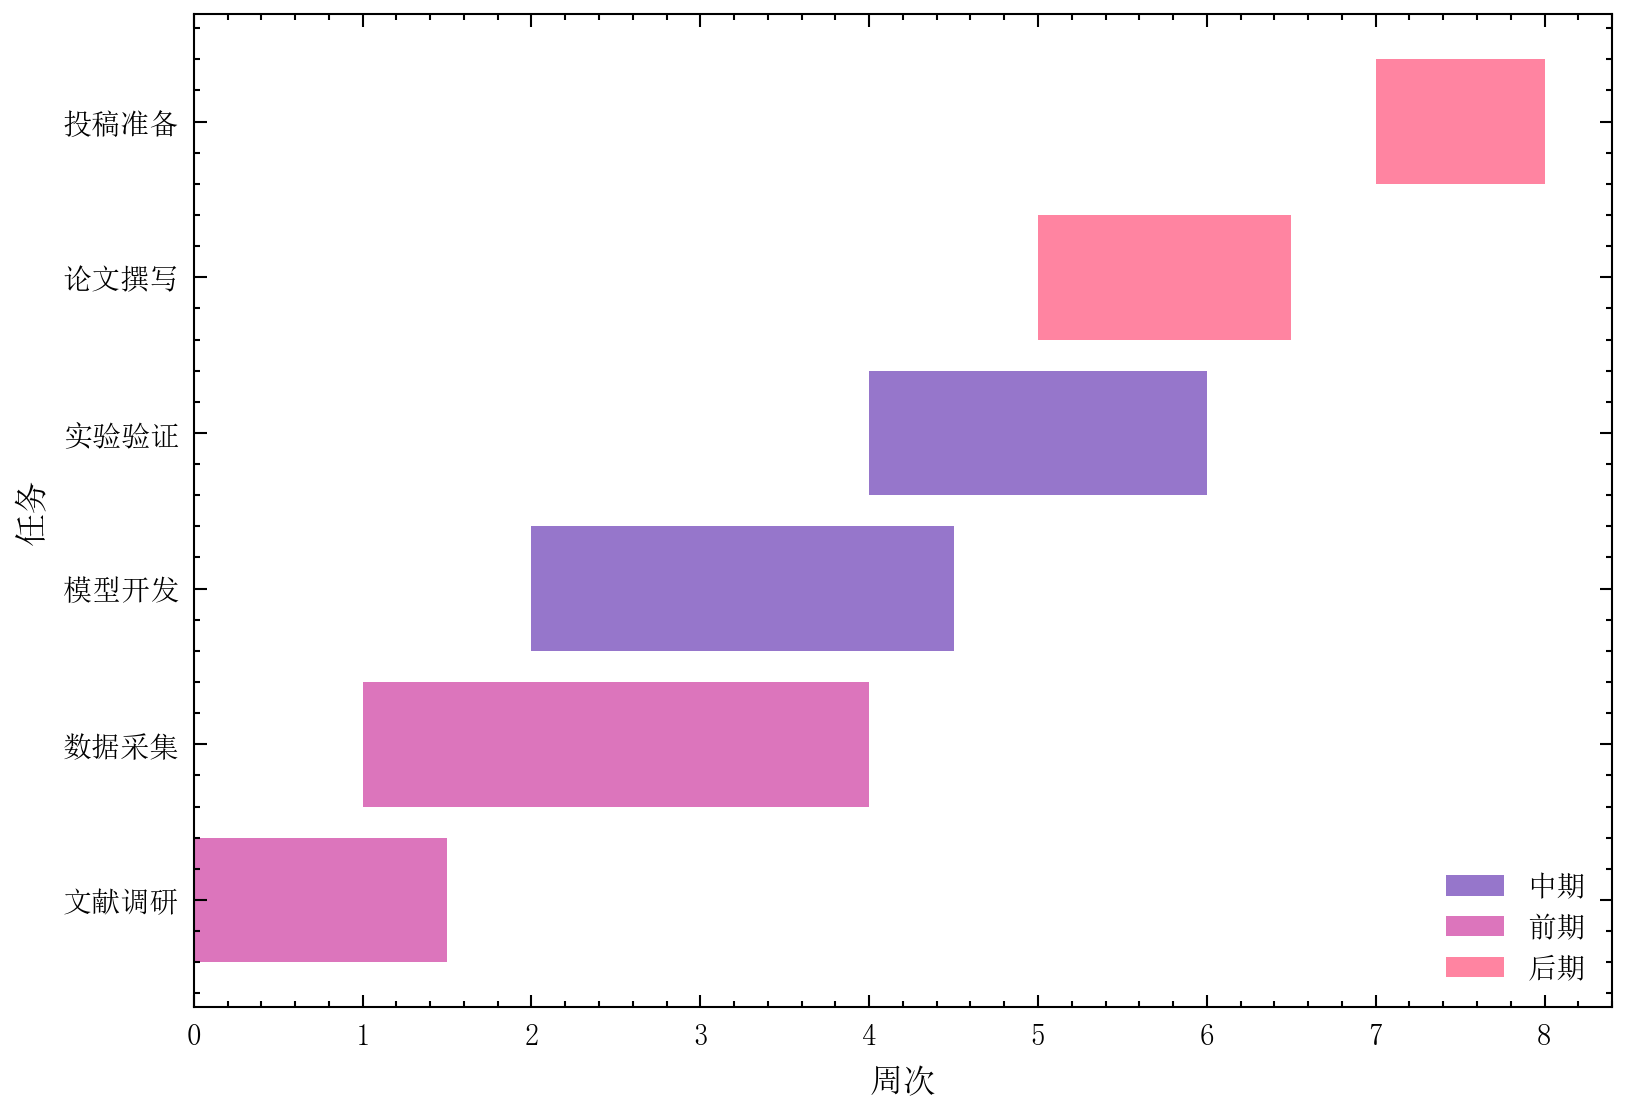
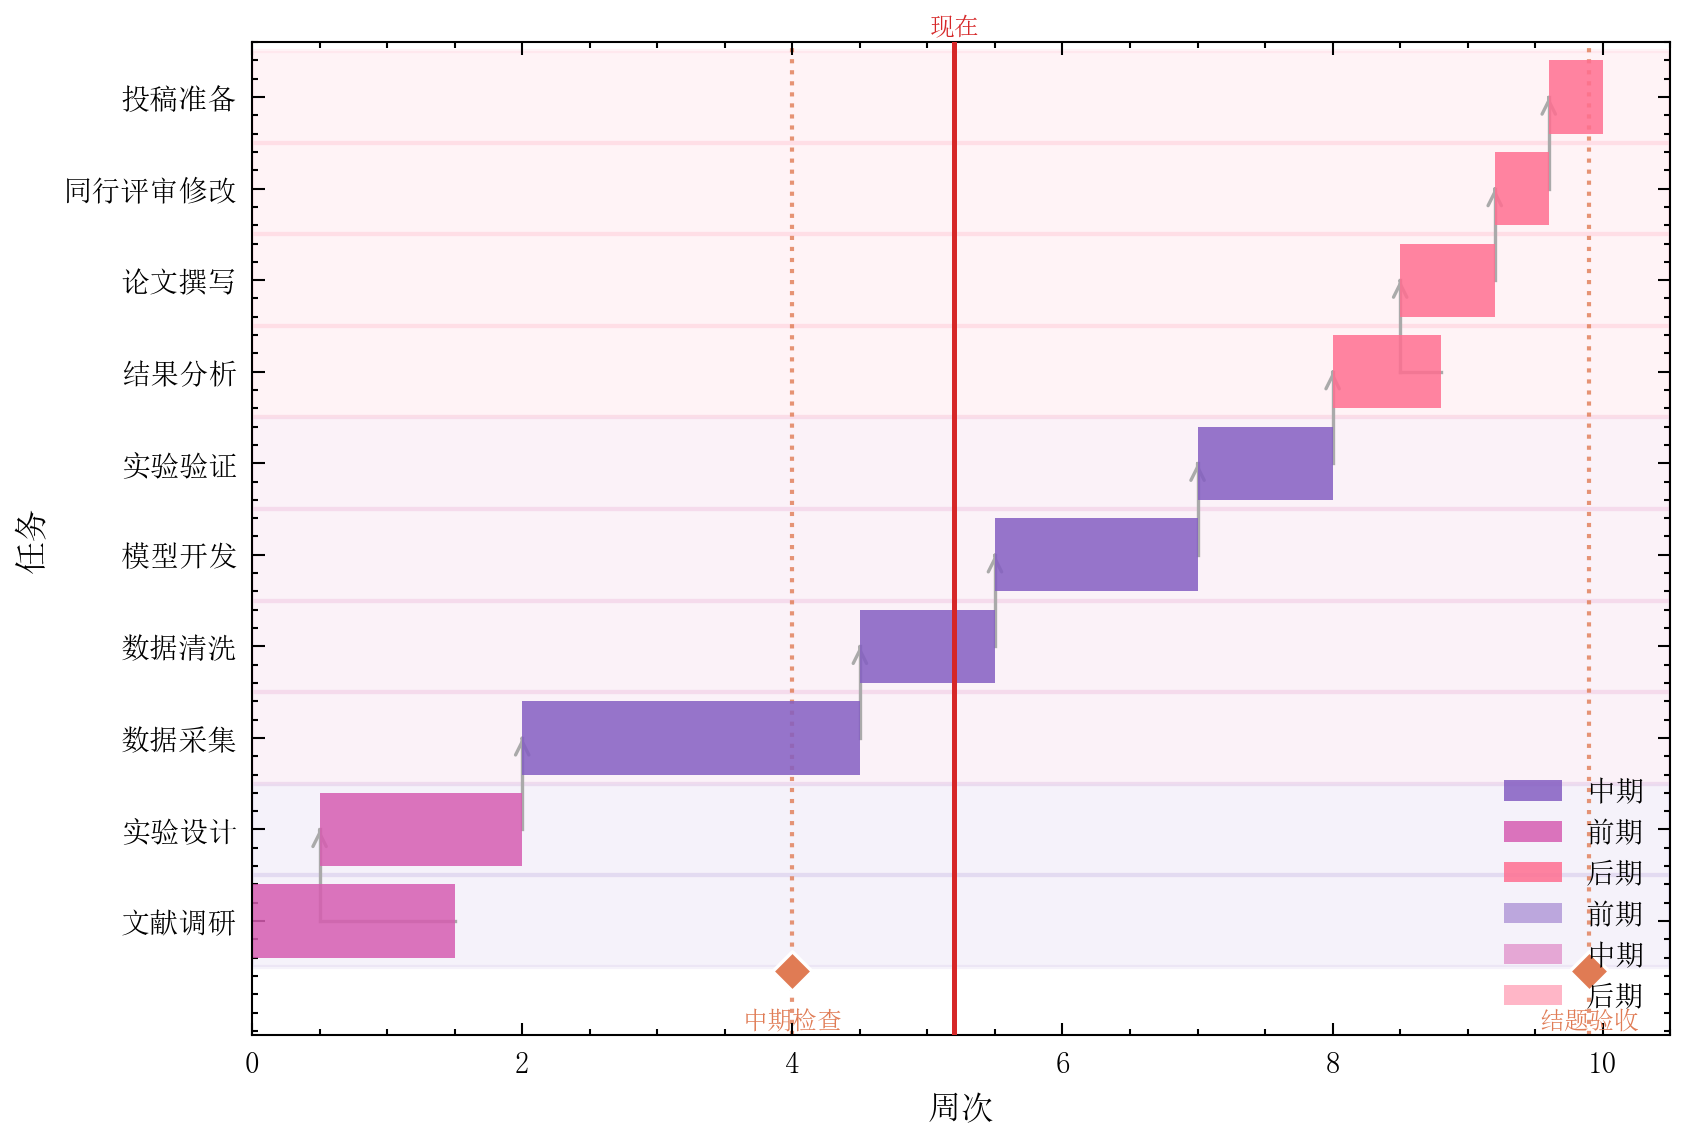
feat(gantt): 甘特图升级 - 阶段背景色带/里程碑菱形/依赖L形箭头/当前时间线/ylim适配

diff --git a/sciplot/_plots/timeseries.py b/sciplot/_plots/timeseries.py
@@ -6,7 +6,7 @@
 
 from __future__ import annotations
 
-from typing import Any, Dict, List, Optional, Union, Sequence
+from typing import Any, Dict, List, Optional, Tuple, Union, Sequence
 import warnings
 
 import matplotlib.pyplot as plt
@@ -445,6 +445,10 @@ def plot_gantt(
     ylabel: str = "",
     title: str = "",
     color_by: Optional[Union[List[str], np.ndarray]] = None,
+    groups: Optional[List[str]] = None,
+    milestones: Optional[Dict[str, float]] = None,
+    dependencies: Optional[List[Tuple[int, int]]] = None,
+    now: Optional[float] = None,
     show_labels: bool = True,
     alpha: float = 0.85,
     venue: Optional[str] = None,
@@ -457,21 +461,27 @@ def plot_gantt(
 
     每个任务一行水平条形，起点为 start、宽度为 duration（或由 end 推导），
     支持数值时间轴（天数/小时）与 datetime 时间轴。
+    可选元素：阶段分组背景色带、里程碑菱形标记、任务依赖箭头、当前时间线。
 
     参数:
-        tasks     : 任务名称列表
-        start     : 任务开始时间（数值或 datetime/date 序列）
-        duration  : 任务持续时长；数值轴为数值，日期轴为 timedelta 或天数
-        end       : 任务结束时间（与 duration 二选一，优先 duration）
-        color_by  : 每任务颜色或类别标签（等长）；None 用配色循环
-        show_labels: 是否显示任务名称
-        alpha     : 条形透明度
+        tasks        : 任务名称列表
+        start        : 任务开始时间（数值或 datetime/date 序列）
+        duration     : 任务持续时长；数值轴为数值，日期轴为 timedelta 或天数
+        end          : 任务结束时间（与 duration 二选一，优先 duration）
+        color_by     : 每任务颜色或类别标签（等长）；None 用配色循环
+        groups       : 任务所属阶段（等长）；提供时绘制阶段背景色带
+        milestones   : {里程碑名称: 时间}，绘制菱形标记与虚线连接
+        dependencies : 依赖关系 [(上游任务索引, 下游任务索引)]，绘制箭头
+        now          : 当前时间位置，绘制红色时间线
+        show_labels  : 是否显示任务名称
+        alpha        : 条形透明度
 
     示例:
         >>> # 数值时间轴（天数）
         >>> fig, ax = sp.plot_gantt(
         ...     ["数据采集", "模型训练", "论文撰写"],
         ...     start=[0, 10, 30], duration=[10, 20, 20],
+        ...     milestones={"中期检查": 22}, dependencies=[(0, 1)], now=15,
         ...     xlabel="天数",
         ... )
         >>> sp.save(fig, "gantt")
@@ -568,14 +578,99 @@ def plot_gantt(
         bar_colors = [colors[i % len(colors)] for i in range(len(tasks))]
         legend_handles = None
 
+    # groups / milestones / dependencies / now 校验
+    if groups is not None:
+        if len(groups) != len(tasks):
+            raise ValueError(
+                f"groups 长度 ({len(groups)}) 与 tasks 长度 ({len(tasks)}) 不一致"
+            )
+    if dependencies is not None:
+        for dep in dependencies:
+            if len(dep) != 2 or not all(
+                isinstance(i, int) and 0 <= i < len(tasks) for i in dep
+            ):
+                raise ValueError(
+                    f"dependencies 必须为 [(上游索引, 下游索引)]，实际项: {dep!r}"
+                )
+
     y = np.arange(len(tasks))
-    ax.barh(y, widths, left=starts_plot, color=bar_colors, alpha=alpha, **kwargs)
+
+    # 阶段背景色带
+    if groups is not None:
+        from matplotlib.patches import Patch as _Patch
+
+        unique_groups = list(dict.fromkeys(groups))
+        group_colors = [colors[i % len(colors)] for i in range(len(unique_groups))]
+        group_map = dict(zip(unique_groups, group_colors))
+        for i, g in enumerate(groups):
+            ax.axhspan(
+                i - 0.5, i + 0.5, color=group_map[g], alpha=0.08, zorder=0,
+            )
+        # 阶段图例
+        legend_handles = legend_handles or []
+        legend_handles += [
+            _Patch(facecolor=c, label=str(g), alpha=0.5)
+            for g, c in zip(unique_groups, group_colors)
+        ]
+
+    ax.barh(y, widths, left=starts_plot, color=bar_colors, alpha=alpha, zorder=2, **kwargs)
+
+    # 任务依赖箭头（L 形：上游右端 → 下游左端）
+    if dependencies:
+        for up_idx, down_idx in dependencies:
+            x_from = starts_plot[up_idx] + widths[up_idx]
+            x_to = starts_plot[down_idx]
+            y_from = float(up_idx)
+            y_to = float(down_idx)
+            mid_y = y_from + (y_to - y_from) * 0.5
+            if abs(y_to - y_from) < 0.5:
+                # 相邻任务：直接水平箭头
+                ax.annotate(
+                    "", xy=(x_to, y_to), xytext=(x_from, y_from),
+                    arrowprops=dict(arrowstyle="->", color="#888888", lw=0.8),
+                    zorder=1,
+                )
+            else:
+                # 跨行：先水平、再垂直、再水平
+                ax.plot([x_from, x_to], [y_from, y_from], color="#AAAAAA",
+                        linewidth=0.8, zorder=1)
+                ax.plot([x_to, x_to], [y_from, y_to], color="#AAAAAA",
+                        linewidth=0.8, zorder=1)
+                ax.annotate(
+                    "", xy=(x_to, y_to), xytext=(x_to, y_to - 0.1),
+                    arrowprops=dict(arrowstyle="->", color="#AAAAAA", lw=0.8),
+                    zorder=1,
+                )
+
+    # 里程碑（菱形 + 虚线连接）
+    if milestones:
+        for m_name, m_time in milestones.items():
+            ax.axvline(x=m_time, color="#E07B54", linestyle=":",
+                       linewidth=1.0, alpha=0.8, zorder=1)
+            ax.scatter([m_time], [-0.55], marker="D", s=45, color="#E07B54",
+                       edgecolors="white", linewidths=0.8, zorder=4)
+            ax.text(m_time, -0.95, m_name, ha="center", va="top",
+                    fontsize=max(6, plt.rcParams.get("font.size", 9) - 2),
+                    color="#E07B54")
+
+    # 当前时间线
+    if now is not None:
+        ax.axvline(x=now, color="#D62728", linewidth=1.2, zorder=3)
+        ax.text(now, len(tasks) - 0.35, "现在", ha="center", va="bottom",
+                fontsize=max(6, plt.rcParams.get("font.size", 9) - 2),
+                color="#D62728")
 
     if show_labels:
         ax.set_yticks(y)
         ax.set_yticklabels(tasks)
     else:
         ax.set_yticks([])
+
+    # 里程碑位于任务区下方，扩展 y 范围容纳
+    if milestones:
+        ax.set_ylim(-1.25, len(tasks) - 0.4)
+    else:
+        ax.set_ylim(-0.5, len(tasks) - 0.5)
 
     if is_datetime:
         ax.xaxis.set_major_formatter(mdates.DateFormatter("%m-%d"))

diff --git a/showcase/22_gantt.py b/showcase/22_gantt.py
@@ -1,18 +1,39 @@
 """
 22_gantt.py — 甘特图
 
-展示 plot_gantt()：项目任务时间线。
-场景：科研项目 8 周执行计划。
+展示 plot_gantt()：科研项目 10 周执行计划。
+包含：三阶段背景色带、里程碑（中期检查/结题验收）、
+任务依赖箭头、当前时间线。
 """
 
 import numpy as np
 import sciplot as sp
 
 # ── 数据生成 ──────────────────────────────────────────────────
-tasks = ["文献调研", "数据采集", "模型开发", "实验验证", "论文撰写", "投稿准备"]
-start = [0, 1, 2, 4, 5, 7]
-duration = [1.5, 3, 2.5, 2, 1.5, 1]
-phases = ["前期", "前期", "中期", "中期", "后期", "后期"]
+tasks = [
+    "文献调研", "实验设计", "数据采集", "数据清洗", "模型开发",
+    "实验验证", "结果分析", "论文撰写", "同行评审修改", "投稿准备",
+]
+start = [0.0, 0.5, 2.0, 4.5, 5.5, 7.0, 8.0, 8.5, 9.2, 9.6]
+duration = [1.5, 1.5, 2.5, 1.0, 1.5, 1.0, 0.8, 0.7, 0.4, 0.4]
+phases = ["前期", "前期", "中期", "中期", "中期", "中期", "后期", "后期", "后期", "后期"]
+
+milestones = {
+    "中期检查": 4.0,
+    "结题验收": 9.9,
+}
+dependencies = [
+    (0, 1),   # 文献调研 → 实验设计
+    (1, 2),   # 实验设计 → 数据采集
+    (2, 3),   # 数据采集 → 数据清洗
+    (3, 4),   # 数据清洗 → 模型开发
+    (4, 5),   # 模型开发 → 实验验证
+    (5, 6),   # 实验验证 → 结果分析
+    (6, 7),   # 结果分析 → 论文撰写
+    (7, 8),   # 论文撰写 → 评审修改
+    (8, 9),   # 评审修改 → 投稿准备
+]
+now = 5.2
 
 # ── 绘图 ──────────────────────────────────────────────────────
 sp.setup_style("thesis", "pastel", lang="zh")
@@ -22,6 +43,10 @@ fig, ax = sp.plot_gantt(
     start=start,
     duration=duration,
     color_by=phases,
+    groups=phases,
+    milestones=milestones,
+    dependencies=dependencies,
+    now=now,
     xlabel="周次",
     ylabel="任务",
 )

diff --git a/tests/unit/test_gantt.py b/tests/unit/test_gantt.py
@@ -112,6 +112,43 @@ def test_gantt_alias_and_export(cleanup_figures):
     assert result.fig is not None
 
 
+def test_gantt_milestones_dependencies_now(cleanup_figures):
+    """里程碑/依赖/当前线组合绘制。"""
+    result = sp.plot_gantt(
+        ["A", "B", "C"], start=[0.0, 1.0, 2.0], duration=[1.0, 1.0, 1.0],
+        milestones={"检查点": 2.5}, dependencies=[(0, 1)], now=1.5,
+    )
+    assert result.fig is not None
+
+
+def test_gantt_bad_dependencies_raises(cleanup_figures):
+    with pytest.raises(ValueError, match="dependencies"):
+        sp.plot_gantt(
+            ["A", "B"], start=[0.0, 1.0], duration=[1.0, 1.0],
+            dependencies=[(0, 5)],
+        )
+
+
+def test_gantt_groups_mismatch_raises(cleanup_figures):
+    with pytest.raises(ValueError, match="groups"):
+        sp.plot_gantt(
+            ["A", "B"], start=[0.0, 1.0], duration=[1.0, 1.0],
+            groups=["x"],
+        )
+
+
+def test_gantt_groups_legend(cleanup_figures):
+    """groups 阶段色带与图例。"""
+    result = sp.plot_gantt(
+        ["A", "B", "C"], start=[0.0, 1.0, 2.0], duration=[1.0, 1.0, 1.0],
+        groups=["前期", "中期", "后期"],
+    )
+    legend = result.ax.get_legend()
+    assert legend is not None
+    texts = [t.get_text() for t in legend.get_texts()]
+    assert "前期" in texts and "后期" in texts
+
+
 def test_gantt_save_png(tmp_path, cleanup_figures):
     result = sp.plot_gantt(
         ["数据采集", "模型训练", "论文撰写"],
